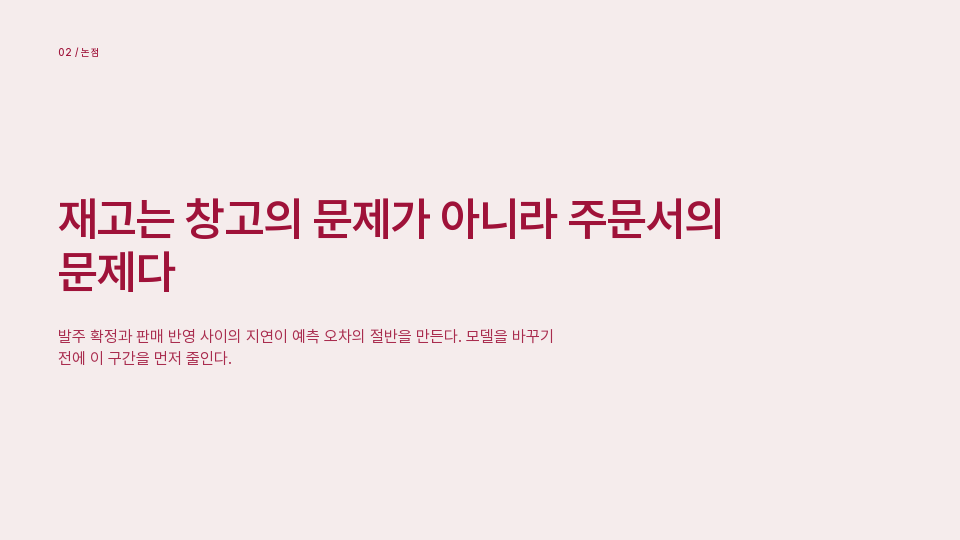
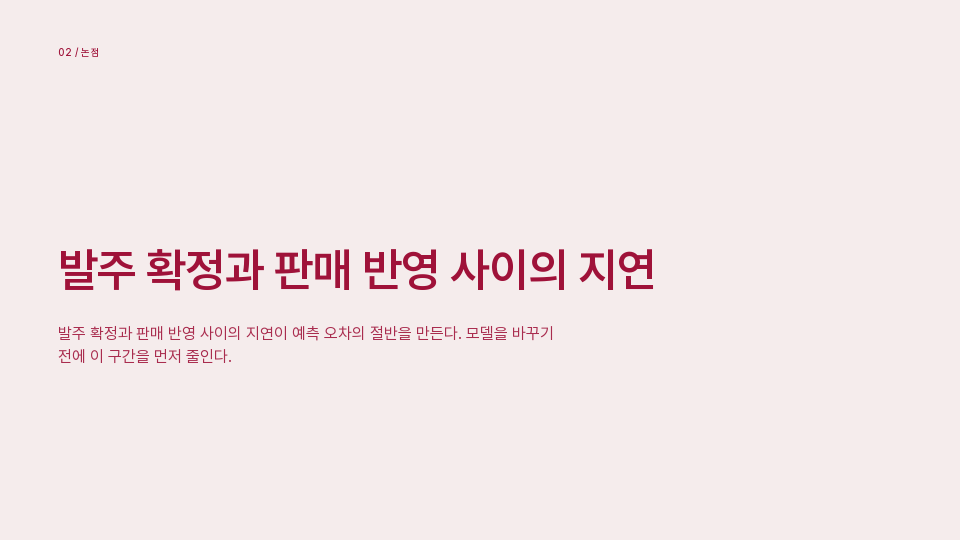
Retitle the example to pass TONE; exempt quotations from it
Six example titles read as slogans or comma-paused lines that the TONE check (07fbbb7)
flags — rewritten as plain name tags. The seventh hit was a quote layout's text: a
quotation is someone else's words, so TONE now reads only the title on quote slides.

Changed region(s): [[0.0625, 0.3556, 0.75, 0.5333], [0.0625, 0.5926, 0.5938, 0.6815]]

diff --git a/scripts/lint.py b/scripts/lint.py
@@ -240,7 +240,9 @@ def main(path, spec_path=None):
                 "열쇠", "마법")
     TRANSITION = {"그런데", "하지만", "그리고", "그래서", "근데", "그러나"}
     for i, sl in enumerate(slides, 1):
-        heads = [str(sl[k]) for k in ("title", "text") if sl.get(k)]
+        # quote 의 text 는 남의 말을 그대로 옮긴 인용문이다 — 우리 제목의 어투로 고칠 대상이 아니다
+        keys = ("title",) if sl.get("layout") == "quote" else ("title", "text")
+        heads = [str(sl[k]) for k in keys if sl.get(k)]
         for raw in heads:
             t = raw.replace("\n", " ").strip()
             why = []
